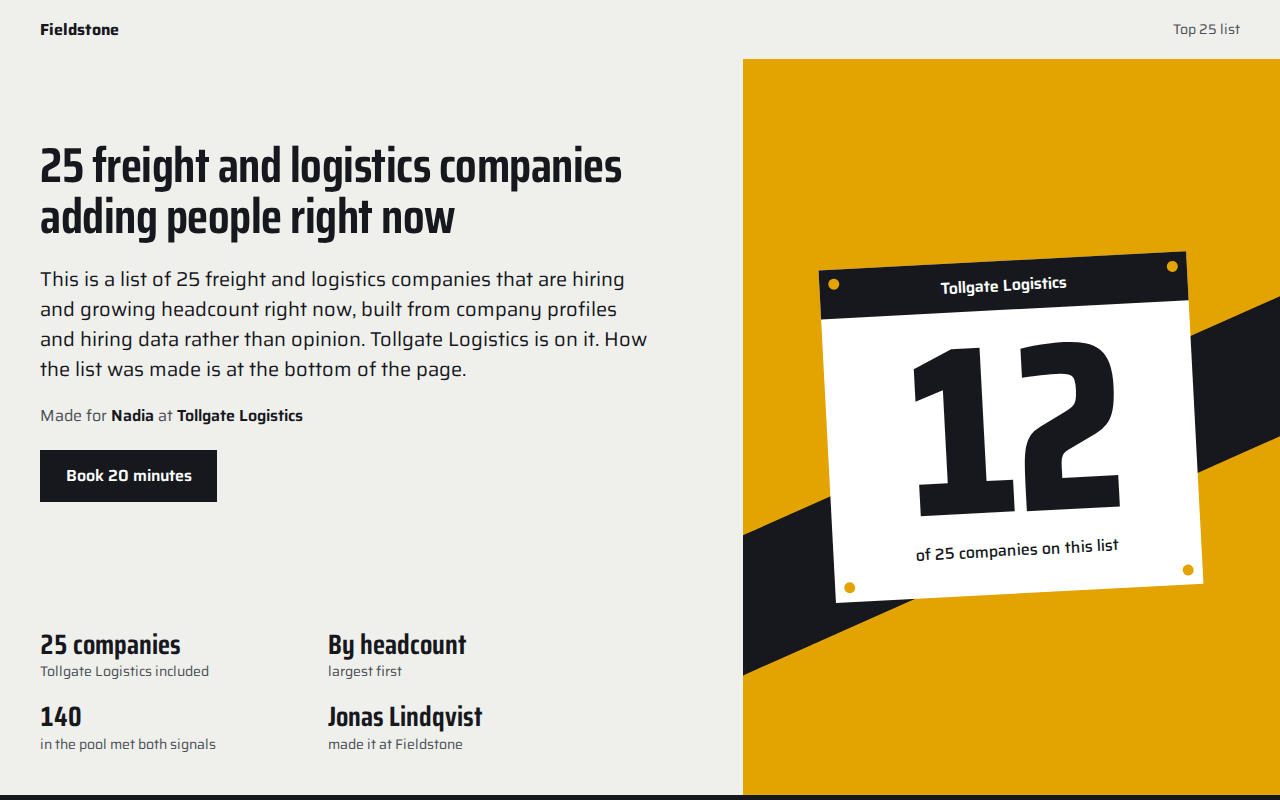
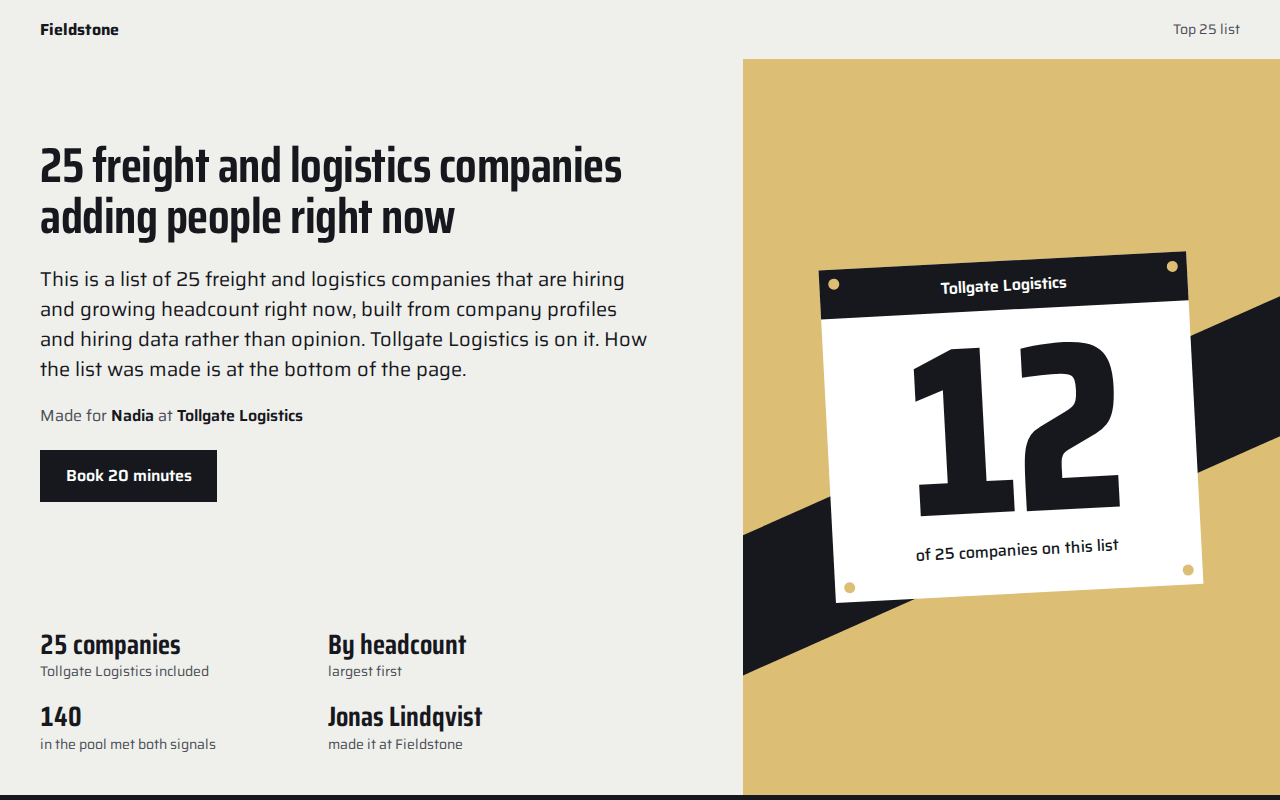
Library colour pass: award-list, softer vest gold

Changed region(s): [[0.5625, 0.0625, 1.0, 0.6875], [0.5625, 0.5312, 1.0, 1.0]]

diff --git a/starters/award-list/preview/tollgate.html b/starters/award-list/preview/tollgate.html
@@ -10,7 +10,7 @@
 *{box-sizing:border-box}
 html{-webkit-text-size-adjust:100%}
 body{margin:0;background:#efefec;color:#16181d;font-family:'Saira',ui-sans-serif,system-ui,sans-serif;font-size:17px;line-height:1.5;-webkit-font-smoothing:antialiased}
-.al{--a:#e3a300;--a2:#16181d;--wd:75%;--paper:#efefec;--tone:#e4e4df;--ink:#16181d;--soft:#4a4d55;--bib:#fff;
+.al{--a:#dcbe75;--a2:#16181d;--wd:75%;--paper:#efefec;--tone:#e4e4df;--ink:#16181d;--soft:#4a4d55;--bib:#fff;
 --on-a:#16181d;--on-a:color(from var(--a) xyz-d65 clamp(0,(.18 - y) * 1000000,.9505) clamp(0,(.18 - y) * 1000000,1) clamp(0,(.18 - y) * 1000000,1.089));
 --on-a2:#efefec;--on-a2:color(from var(--a2) xyz-d65 clamp(0,(.18 - y) * 1000000,.9505) clamp(0,(.18 - y) * 1000000,1) clamp(0,(.18 - y) * 1000000,1.089));
 --m:clamp(1.125rem,3.2vw,2.5rem);overflow-x:clip}
